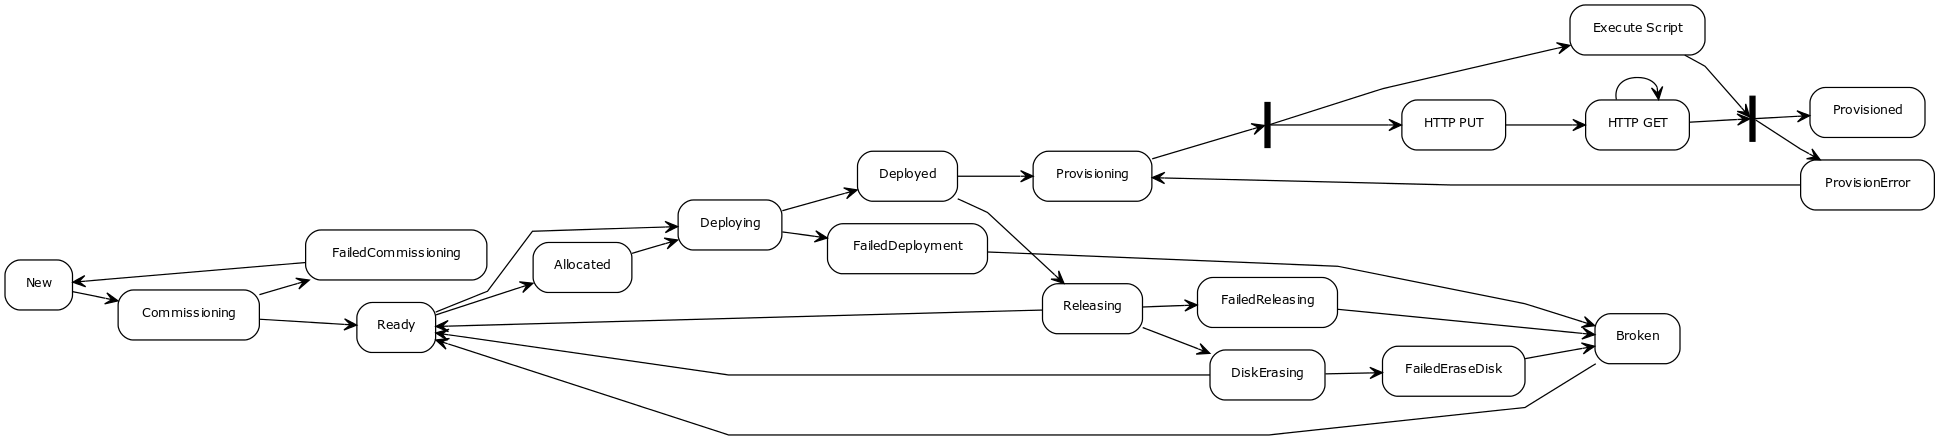
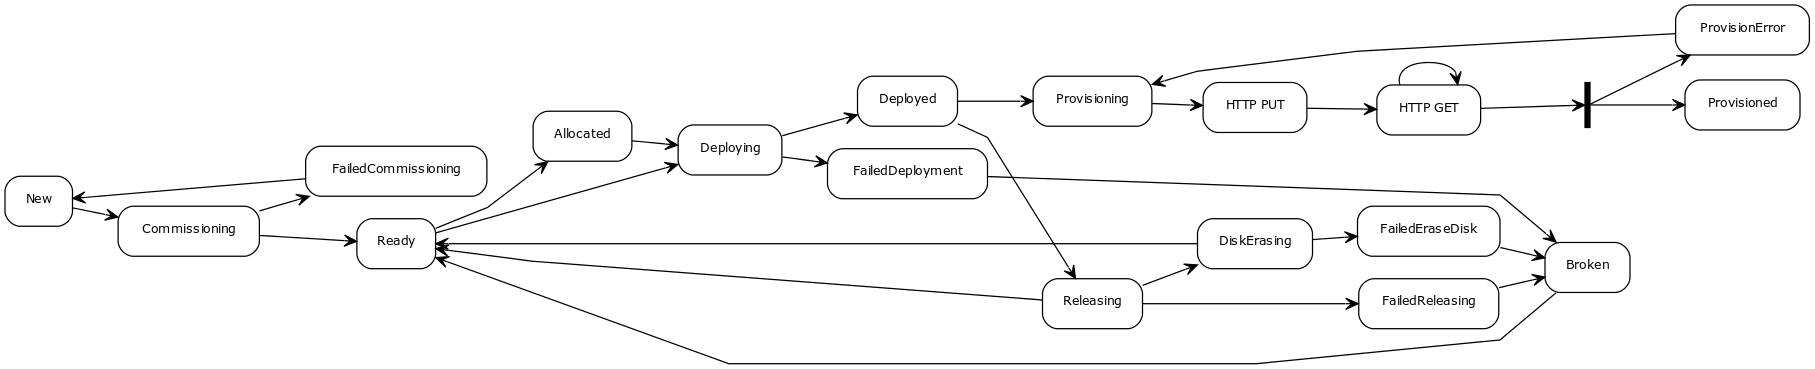
CORD-273 - clean up documentation about removing ansible from this container

diff --git a/automation/state.go b/automation/state.go
@@ -98,7 +98,7 @@ var Transitions = map[string]map[string][]Action{
 const (
 	// defaultStateMachine Would be nice to drive from a graph language
 	defaultStateMachine string = `
-	(New)->(Commissioning)
+        (New)->(Commissioning)
         (Commissioning)->(FailedCommissioning)
         (FailedCommissioning)->(New)
         (Commissioning)->(Ready)
@@ -118,14 +118,12 @@ const (
         (DiskErasing)->(Ready)
         (Broken)->(Ready)
         (Deployed)->(Provisioning)
-	(Provisioning)->|a|
-	|a|->(Execute Script)->|b|
-	|a|->(HTTP PUT)
-	(HTTP PUT)->(HTTP GET)
-	(HTTP GET)->(HTTP GET)
-	(HTTP GET)->|b|
-	|b|->(Provisioned)
-	|b|->(ProvisionError)
+        (Provisioning)->(HTTP PUT)
+        (HTTP PUT)->(HTTP GET)
+        (HTTP GET)->(HTTP GET)
+        (HTTP GET)->|b|
+        |b|->(Provisioned)
+        |b|->(ProvisionError)
         (ProvisionError)->(Provisioning)`
 )
 

diff --git a/automation/README.md b/automation/README.md
@@ -91,20 +91,8 @@ MAAS except the states Provisioning, ProvisionError, and Provisioned. These
 states are used to track the post-deployment provisioning that is part of the
 automation.
 
-Post deployment provisioning can be accomplished either by the specification of
-a script to execute or the specification of a URL to trigger.
-
-#### Executing a Script
-A script to execute to post deploy provision a node can be specified via the
-environment as `PROVISION_URL`. After a node is deployed this script will be
-executed with three (3) parameters:
-- node ID - the node ID that MAAS uses to track the node
-- name - the name of the node in MAAS
-- ip - the IP address assigned to the node
-
-It is important to note that when executing a script that the script is run
-within the docker container that is running the automation. Thus any script
-must be mounted as a volume into the container.
+Post deployment provisioning can be accomplished either by the specification
+of a URL to trigger.
 
 #### Triggering a URL
 Alternatively the automation can trigger a URL to POST deploy provision a node.
